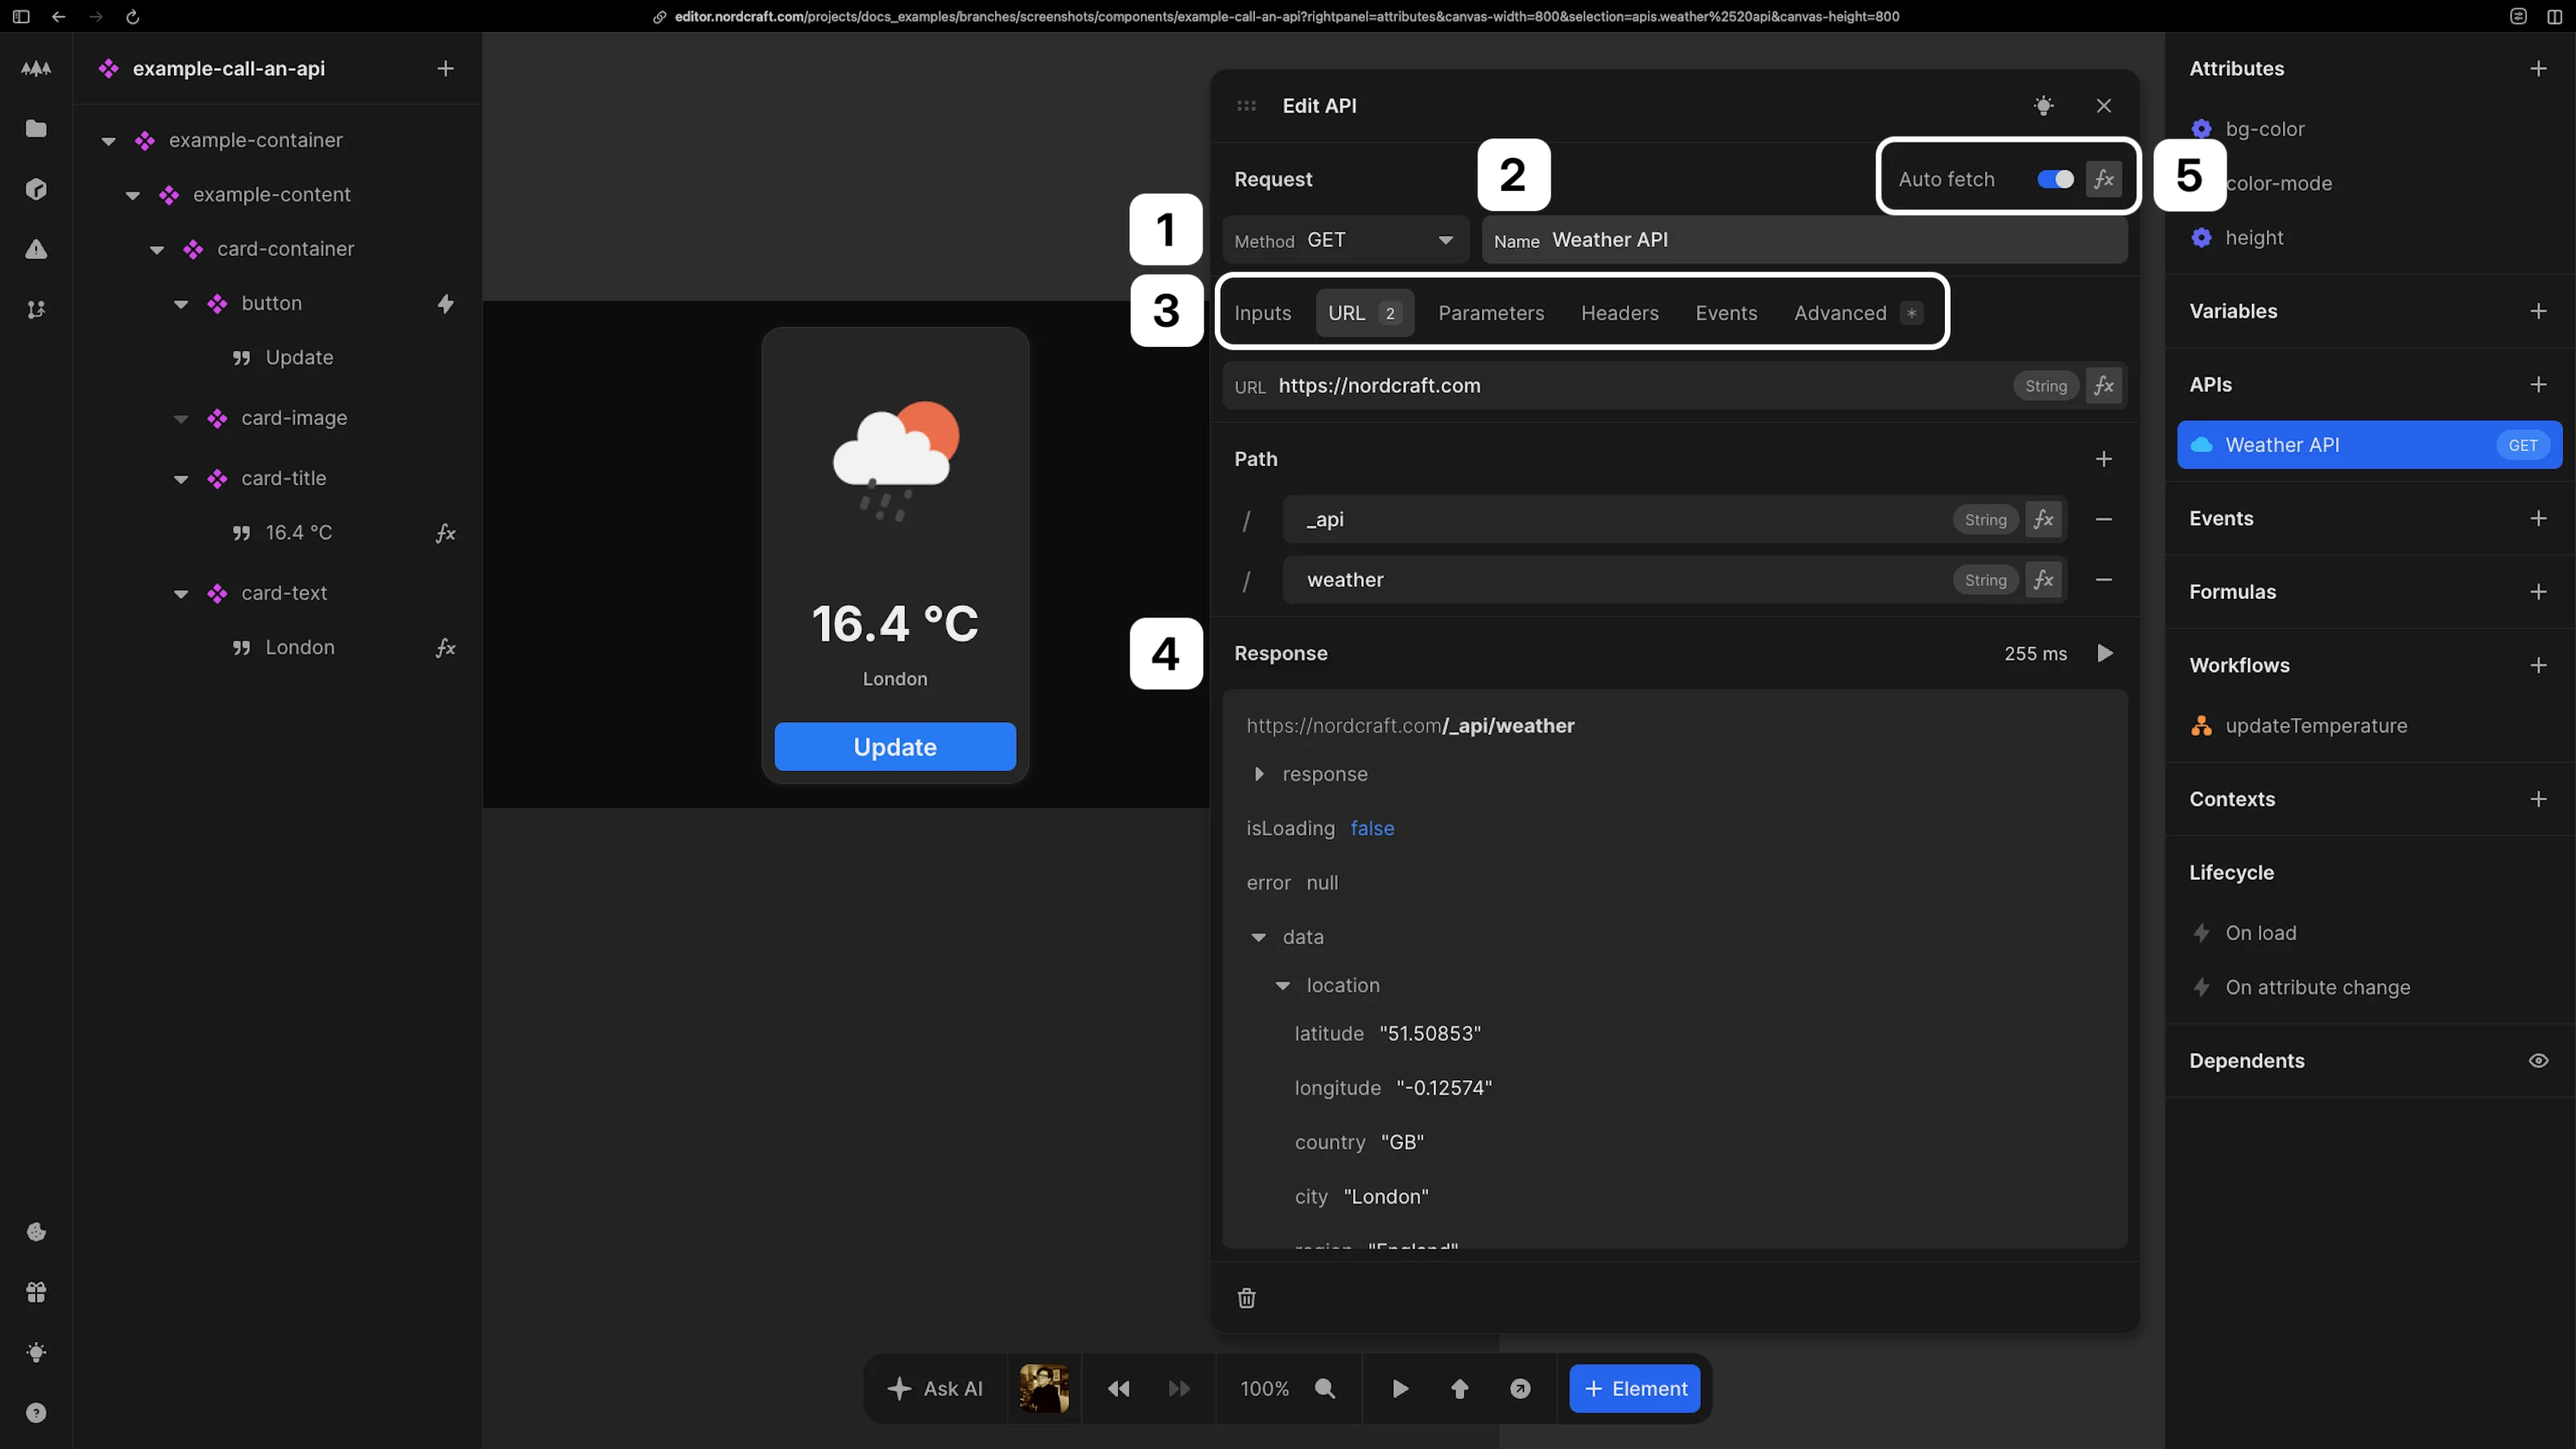
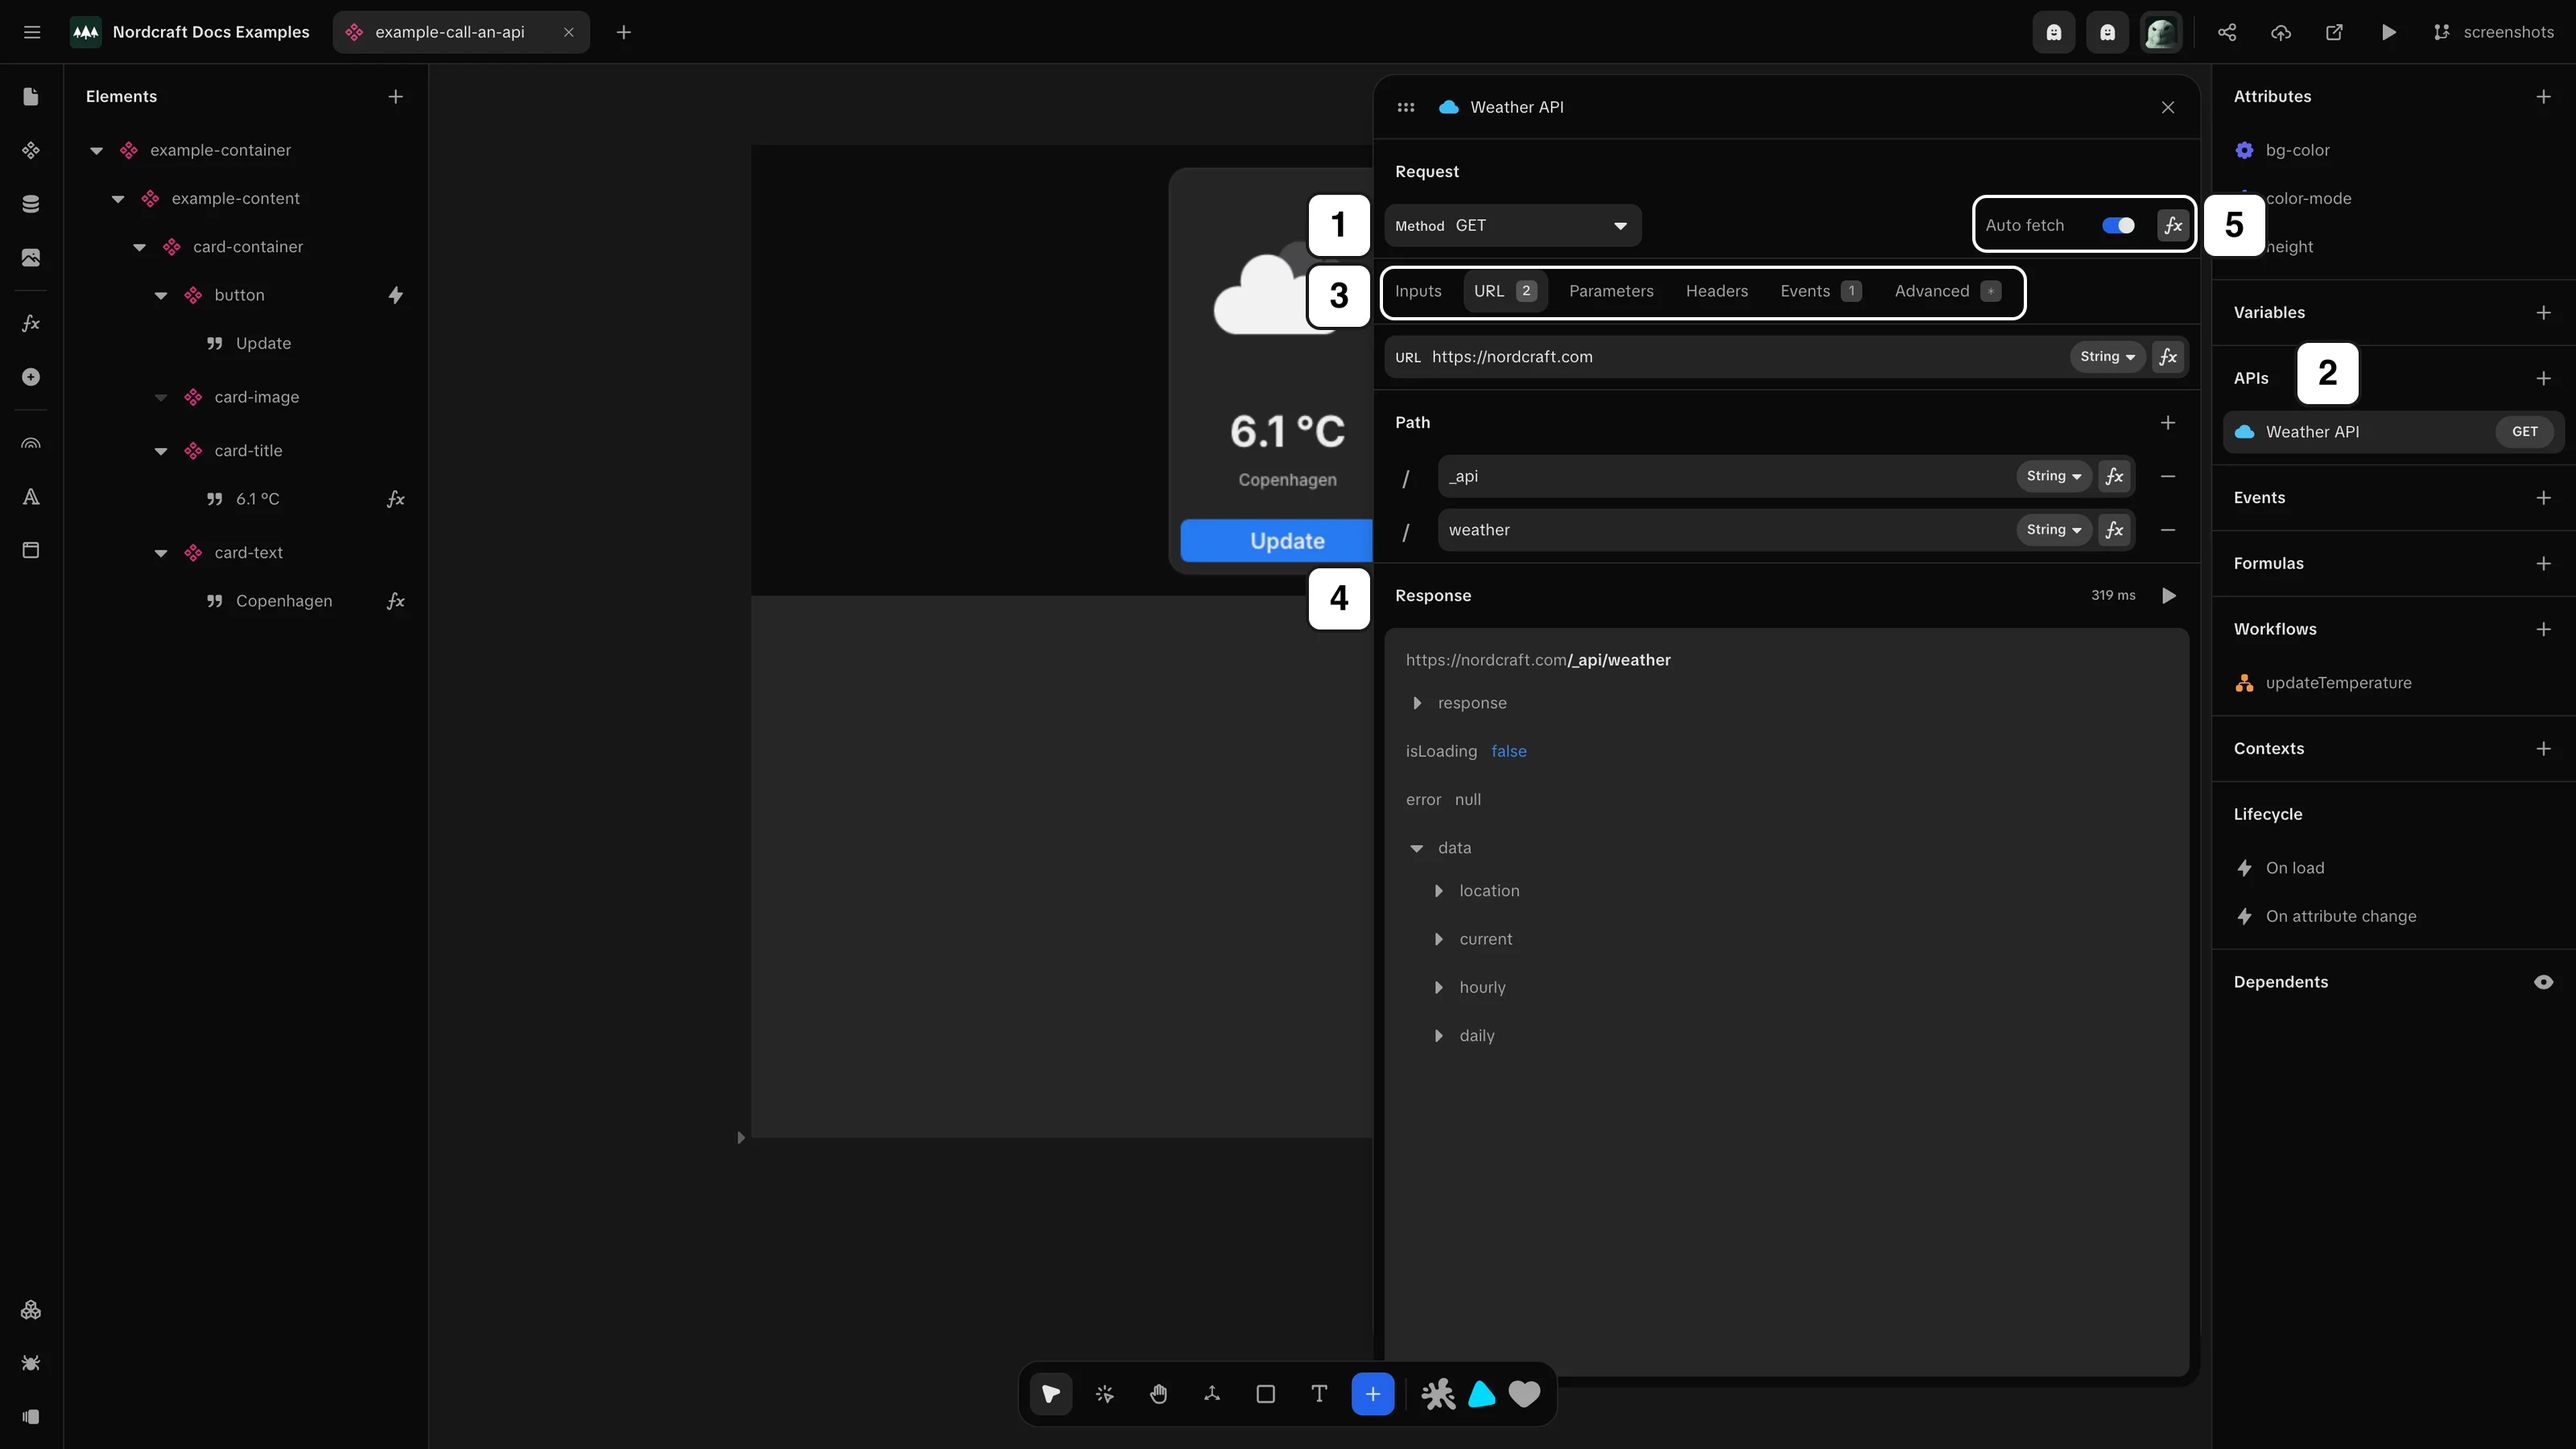
api requests

diff --git a/docs/connecting-data/working-with-apis/configure-api-requests.screenshot.ts b/docs/connecting-data/working-with-apis/configure-api-requests.screenshot.ts
@@ -1,0 +1,58 @@
+import { defineScreenshot } from '@/scripts/capture-screenshots'
+import type { Page } from 'playwright'
+
+// Placeholder script for configure-api-requests.webp
+export default defineScreenshot({
+  path: '/projects/docs_examples/branches/screenshots/components/example-call-an-api?mode=design&canvas-tool=select&canvas-width=800&selection=apis.Weather%2520API&rightpanel=style',
+  setup: async (page: Page) => {
+    await page.waitForTimeout(500)
+  },
+  annotations: [
+    {
+      type: 'badge',
+      x: 406,
+      y: 60,
+      text: '1'
+    },
+    {
+      type: 'badge',
+      x: 713,
+      y: 106,
+      text: '2'
+    },
+    {
+      type: 'badge',
+      x: 406,
+      y: 82,
+      text: '3'
+    },
+    {
+      type: 'badge',
+      x: 406,
+      y: 176,
+      text: '4'
+    },
+    {
+      type: 'badge',
+      x: 684,
+      y: 60,
+      text: '5'
+    },
+    {
+      type: 'box',
+      x: 429,
+      y: 83,
+      width: 200,
+      height: 16,
+      rx: 4
+    },
+    {
+      type: 'box',
+      x: 613,
+      y: 61,
+      width: 69,
+      height: 17,
+      rx: 4
+    }
+  ],
+})
